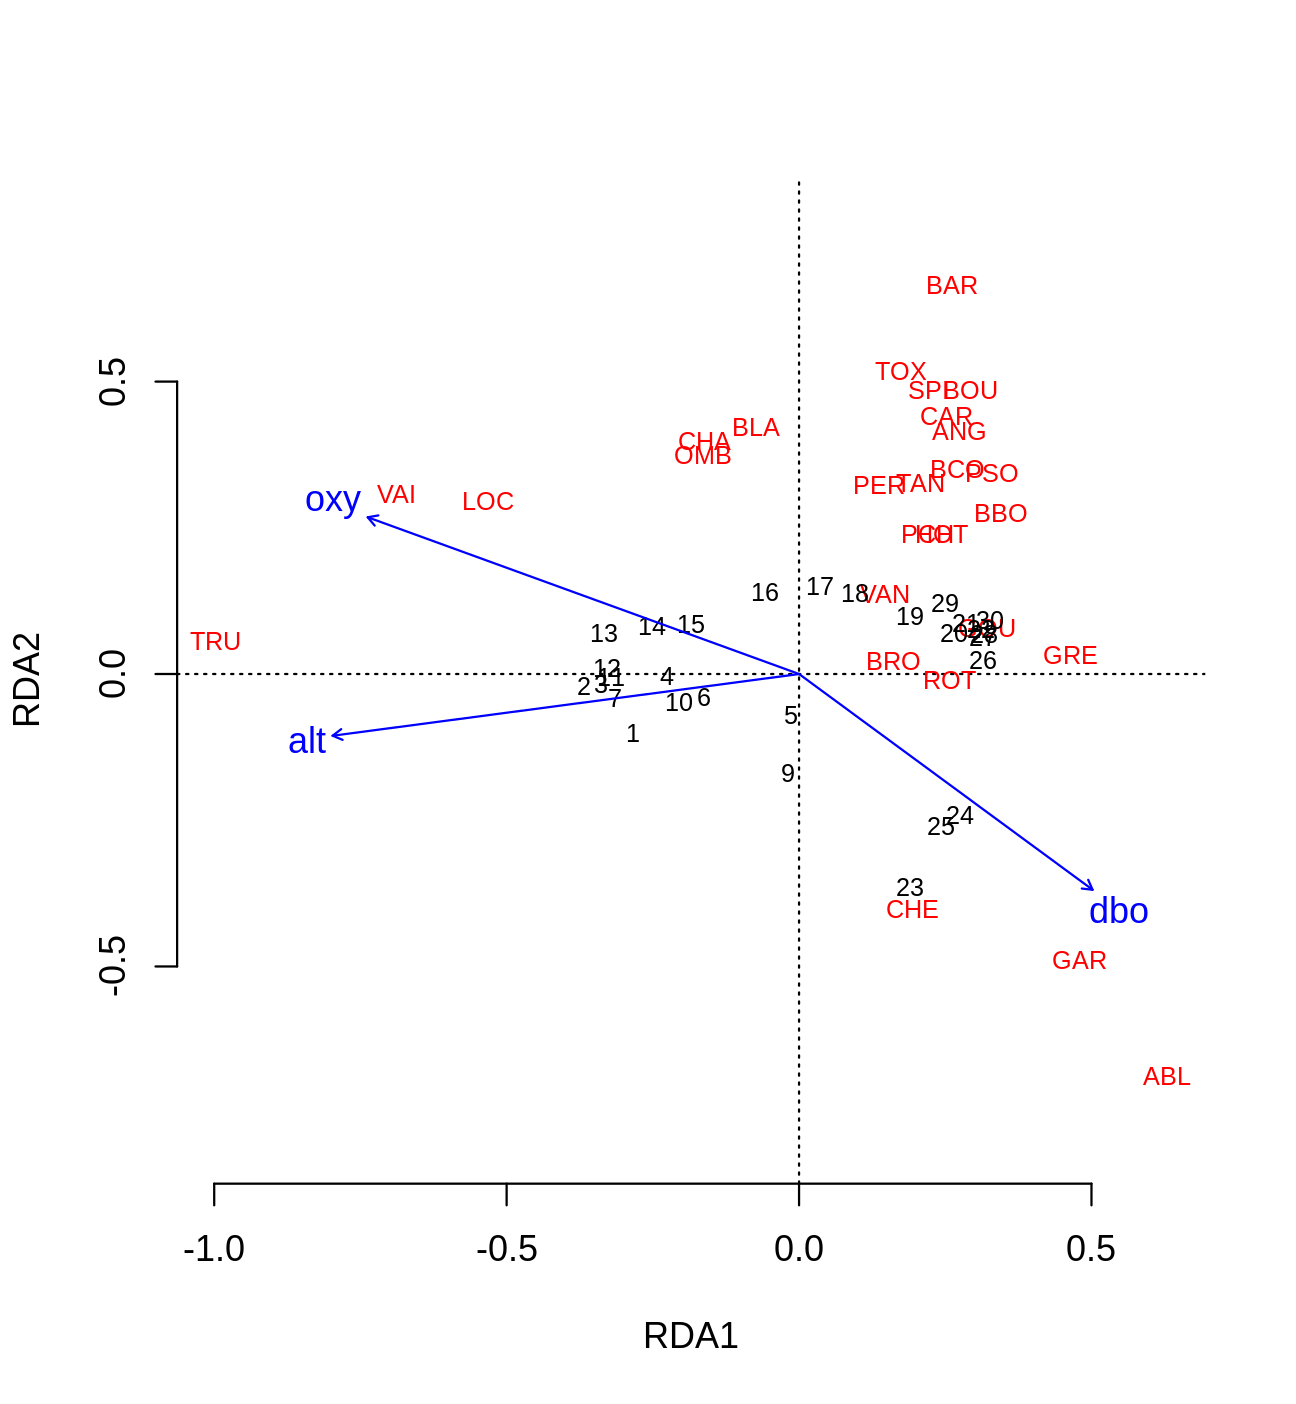
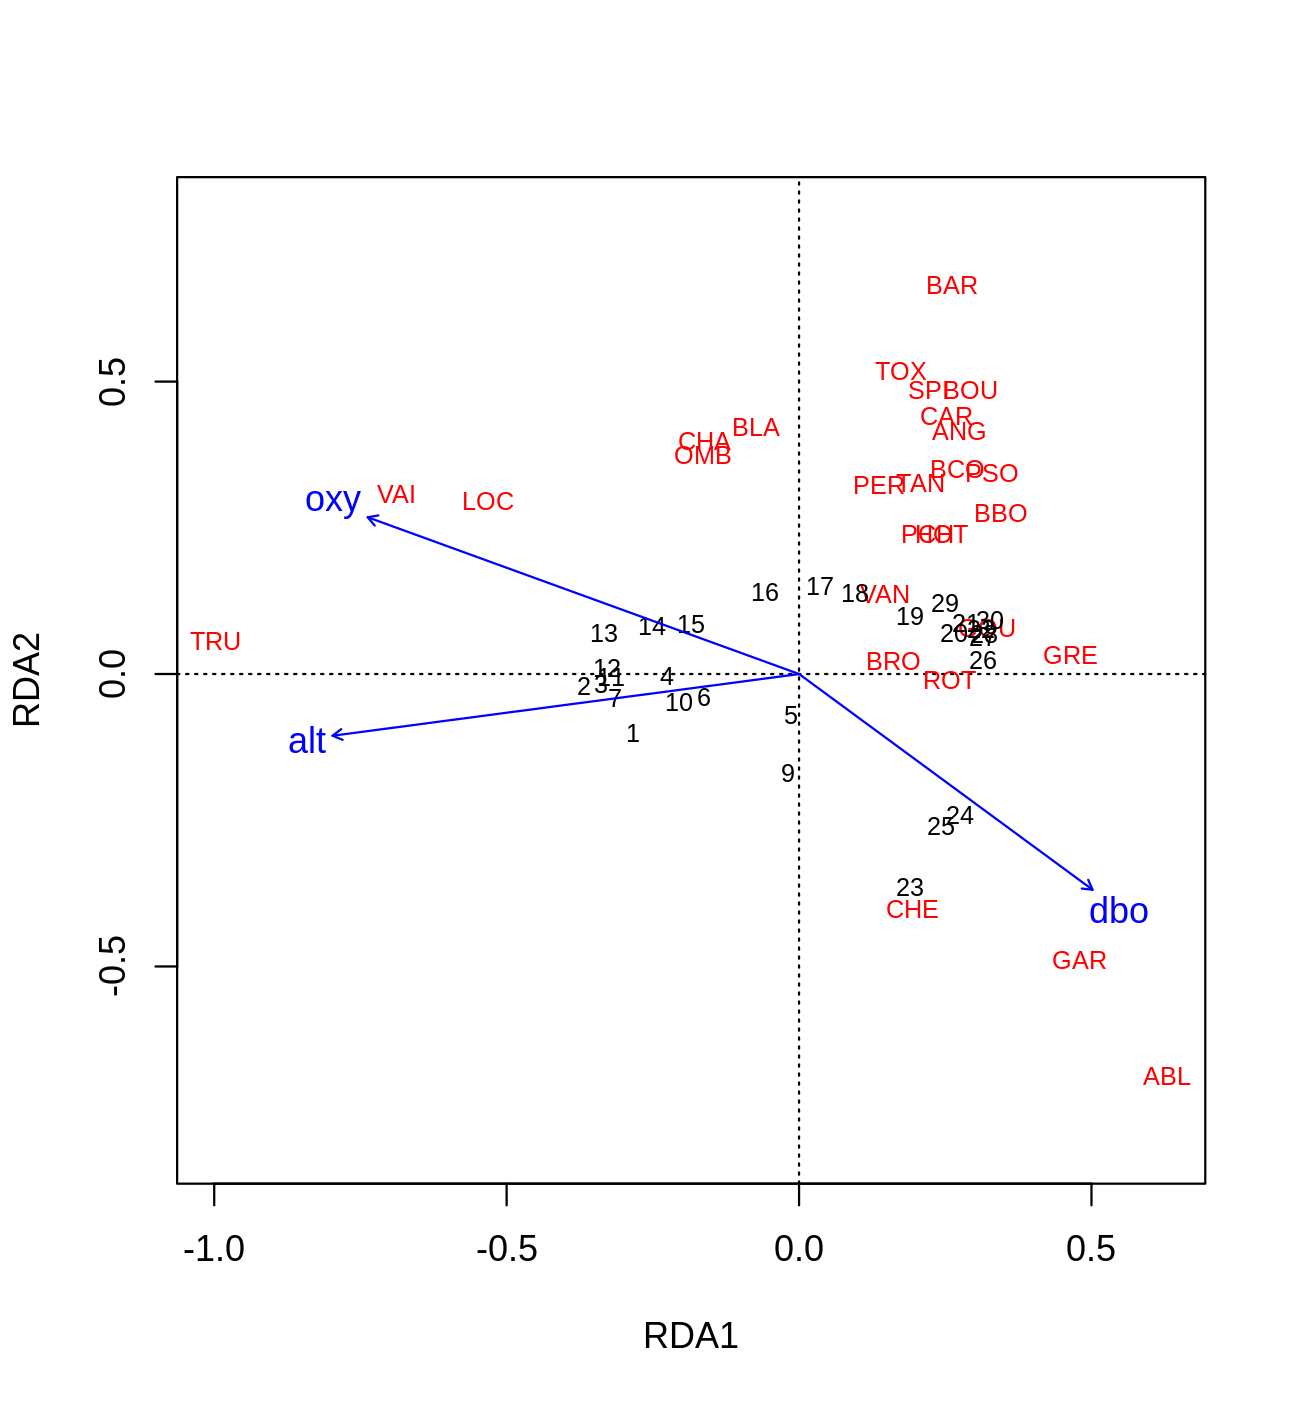
Deploying to gh-pages from  @ df465523013da14a201cf1bf4f32984c1d225f9b 🚀

Changed region(s): [[0.1235, 0.1225, 0.1543, 0.1531]]

diff --git a/pres-en/workshop10-pres-en.html b/pres-en/workshop10-pres-en.html
@@ -116,7 +116,7 @@ For this workshop, you will need:
   * [Test data for linear discriminant analyses](https://raw.githubusercontent.com/QCBSRworkshops/workshop10/main/pres-en/data/classifyme.csv)
 
 &lt;br&gt;&lt;br&gt;&lt;br&gt;&lt;br&gt;&lt;br&gt;&lt;br&gt;&lt;br&gt;
-.small[.comment[To download the data, do right click + save on the page that opens.]
+.small[.comment[To download the data, do right click + save on the page that opens.]]
 
 ---
 # Required packages
@@ -508,7 +508,7 @@ anova.cca(spe.rda.signif, step = 1000, by = "term")
 #          Df Variance       F Pr(&gt;F)    
 # alt       1 0.164856 19.9759  0.001 ***
 # oxy       1 0.082426  9.9877  0.001 ***
-# dbo       1 0.048909  5.9264  0.002 ** 
+# dbo       1 0.048909  5.9264  0.004 ** 
 # Residual 25 0.206319                   
 ...
 ```
@@ -536,7 +536,6 @@ There are 2 scaling options:
 ```r
 ordiplot(spe.rda.signif,
          scaling = 1,
-         frame = F,
          type = "text")
 ```
 
@@ -774,7 +773,7 @@ spe.partial.rda &lt;- rda(spe.hel ~ pH + dur + pho + nit + amm + oxy + dbo + # t
 
 
 ```r
-summary(spe.partial.rda, display = NULL)
+summary(spe.partial.rda)
 ```
 
 ```
@@ -919,7 +918,7 @@ mite.spe.subs &lt;- rda(mite.spe.hel ~ Shrub + Topo
                      data = mite.env)
 
 # Check summary
-summary(mite.spe.subs, display = NULL)
+summary(mite.spe.subs)
 ...
 # Partitioning of variance:
 #               Inertia Proportion
@@ -976,8 +975,8 @@ anova.cca(mite.spe.subs, step = 1000, by = "axis")
 # Model: rda(formula = mite.spe.hel ~ Shrub + Topo + Condition(SubsDens + WatrCont + Substrate), data = mite.env)
 #          Df Variance      F Pr(&gt;F)    
 # RDA1      1 0.027236 8.4618  0.001 ***
-# RDA2      1 0.008254 2.5643  0.022 *  
-# RDA3      1 0.003193 0.9919  0.430    
+# RDA2      1 0.008254 2.5643  0.024 *  
+# RDA3      1 0.003193 0.9919  0.419    
 # Residual 58 0.186688                  
 # ---
 # Signif. codes:  0 '***' 0.001 '**' 0.01 '*' 0.05 '.' 0.1 ' ' 1
@@ -1196,7 +1195,7 @@ spat.sel &lt;- ordiR2step(rda(mite.spe.hel ~ 1, data = mite.pcnm),
                trace = FALSE)
 spat.sel$call
 # rda(formula = mite.spe.hel ~ V2 + V3 + V8 + V1 + V6 + V4 + V9 + 
-#     V16 + V7 + V20, data = mite.pcnm)
+#     V16 + V7, data = mite.pcnm)
 ```
 
 ---
@@ -1224,10 +1223,10 @@ mite.spat &lt;- subset(mite.pcnm,
 mite.part &lt;- varpart(mite.spe.hel, mite.subs, mite.spat)
 mite.part$part$indfract # access results!
 #                 Df R.squared Adj.R.squared Testable
-# [a] = X1|X2      2        NA    0.05901929     TRUE
-# [b]              0        NA    0.24765221    FALSE
-# [c] = X2|X1     10        NA    0.19415929     TRUE
-# [d] = Residuals NA        NA    0.49916921    FALSE
+# [a] = X1|X2      2        NA    0.06152333     TRUE
+# [b]              0        NA    0.24514817    FALSE
+# [c] = X2|X1      9        NA    0.18615302     TRUE
+# [d] = Residuals NA        NA    0.50717548    FALSE
 ```
 
 * What proportion of the variation is explained by substrate variables?
@@ -1249,8 +1248,8 @@ anova.cca(rda(mite.spe.hel, mite.subs, mite.spat))
 ...
 # Model: rda(X = mite.spe.hel, Y = mite.subs, Z = mite.spat)
 #          Df Variance      F Pr(&gt;F)    
-# Model     2 0.025602 4.4879  0.001 ***
-# Residual 57 0.162583                  
+# Model     2 0.026889 4.6392  0.001 ***
+# Residual 58 0.168088                  
 ...
 ```
 
@@ -1262,8 +1261,8 @@ anova.cca(rda(mite.spe.hel, mite.spat, mite.subs))
 ...
 # Model: rda(X = mite.spe.hel, Y = mite.spat, Z = mite.subs)
 #          Df Variance      F Pr(&gt;F)    
-# Model    10  0.10286 3.6061  0.001 ***
-# Residual 57  0.16258                  
+# Model     9 0.097351 3.7324  0.001 ***
+# Residual 58 0.168088                  
 ...
 ```
 
